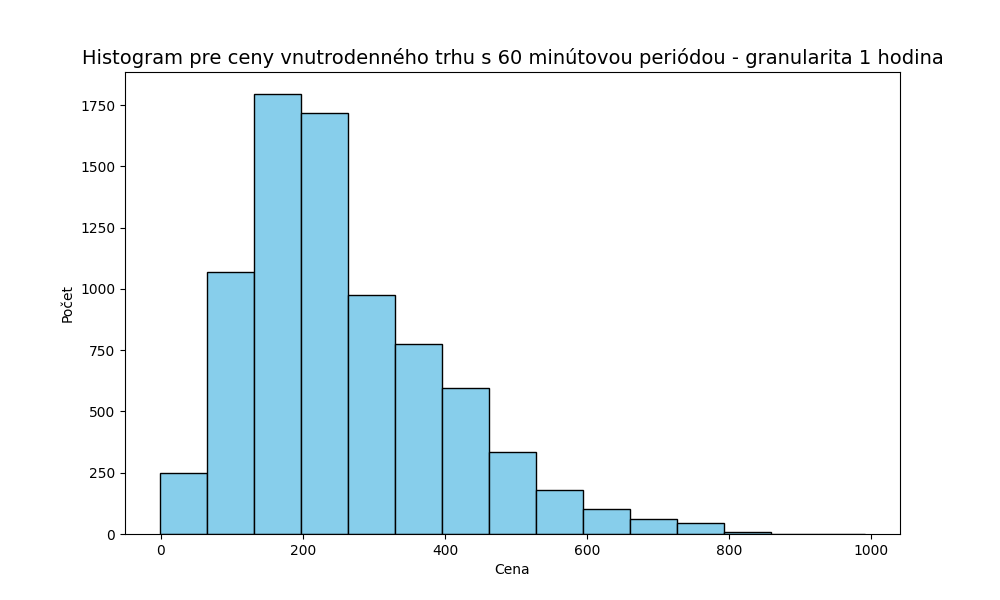
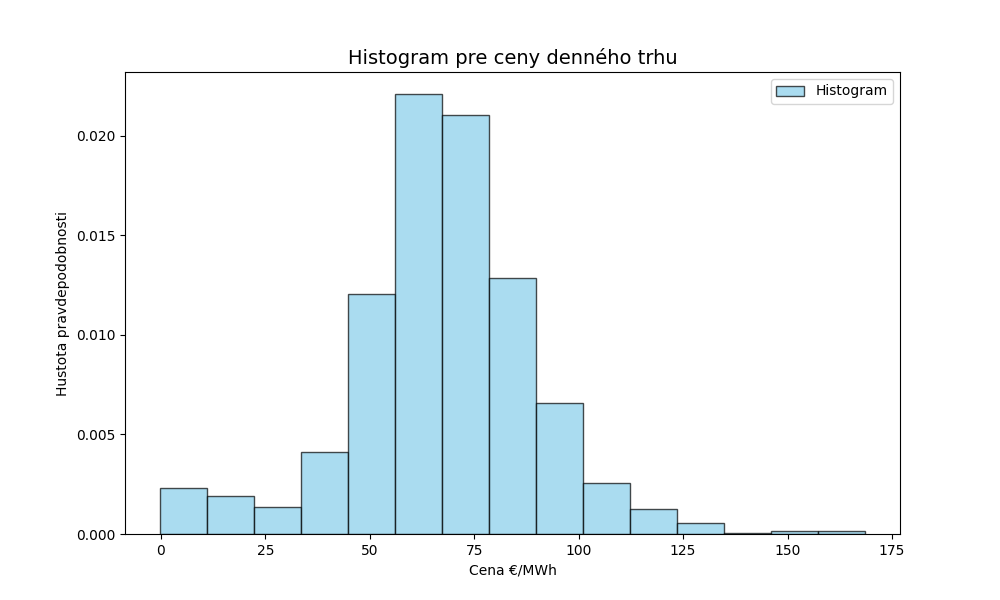
final version

diff --git a/PredictionAnalysis.py b/PredictionAnalysis.py
@@ -1,4 +1,5 @@
-from scipy.stats import stats
+import numpy as np
+from scipy.stats import stats, norm
 from statsmodels.tsa.stattools import adfuller
 from statsmodels.tsa.stl._stl import STL
 import scipy.stats as stats
@@ -140,21 +141,25 @@ def merging_data_and_preparation_dam_idm(market_type, date_from, date_to):
     return merged_df
 
 def Histogram(market_type, date_from, date_to):
-    if (market_type == "IDM15"):
-        merged_df = merging_data_and_preparation_IDM15(market_type,date_from,date_to)
+    if market_type == "IDM15":
+        merged_df = merging_data_and_preparation_IDM15(market_type, date_from, date_to)
     else:
         merged_df = merging_data_and_preparation_dam_idm(market_type, date_from, date_to)
 
     plt.figure(figsize=(10, 6))
-    plt.hist(merged_df['price'], bins=15,color='skyblue', edgecolor='black')
-    if (market_type == "IDM"):
-        plt.title(f'Histogram pre ceny vnutrodenného trhu s 60 minútovou periódou - granularita 1 hodina', fontsize=14)
-    if (market_type == "DAM"):
-        plt.title(f'Histogram pre ceny denného trhu - granularita 1 hodina', fontsize=14)
-    if (market_type == "IDM15"):
-        plt.title(f'Histogram pre ceny vnutrodenného trhu s 15 minútovou periódou - granularita 1 hodina', fontsize=14)
-    plt.xlabel('Cena')
-    plt.ylabel('Počet')
+    plt.hist(merged_df['price'], bins=15, color='skyblue', edgecolor='black', density=True, alpha=0.7,
+             label='Histogram')
+
+    if market_type == "IDM":
+        plt.title('Histogram pre ceny vnútrodenného trhu s 60 minútovou periódou', fontsize=14)
+    elif market_type == "DAM":
+        plt.title('Histogram pre ceny denného trhu', fontsize=14)
+    elif market_type == "IDM15":
+        plt.title('Histogram pre ceny vnútrodenného trhu s 15 minútovou periódou', fontsize=14)
+
+    plt.xlabel('Cena €/MWh')
+    plt.ylabel('Hustota pravdepodobnosti')
+    plt.legend()
     plt.savefig("Graphs/Histogram_from_to")
     plt.show()
 
@@ -244,7 +249,7 @@ def DecompositionOfTimeSeries():
 
 
 def STLDecomposition():
-    with open("Data/DAM_results_2023DEC.pkl", "rb") as file_dam:
+    with open("Data/DAM_results_2023.pkl", "rb") as file_dam:
         data_dam2023 = pickle.load(file_dam)
 
     with open("Data/DAM_results_2020.pkl", "rb") as file_dam:
@@ -280,41 +285,43 @@ def STLDecomposition():
     combined_years['diff_price'] = combined_years['price'].diff()
 
     # STl dekompozícia
-    stl = STL(df_dam2023['price'], seasonal=13)  # 13 je priemerná sezónna dĺžka v roku
+    stl = STL(combined_years['price'], seasonal=13)  # 13 je priemerná sezónna dĺžka v roku
 
     # Vykonanie dekompozície
     result = stl.fit()
 
     # Vykreslenie dekompozície
-    plt.figure(figsize=(12, 12))
+    plt.figure(figsize=(12, 14))
 
     plt.subplot(4, 1, 1)
-    plt.plot(df_dam2023['price'], label='Pôvodné ceny')
-    plt.xlabel('Dátum')
+    plt.plot(combined_years['price'], label='Pôvodné ceny')
+    plt.xlabel('Dátum', fontsize=11)  # Veľkosť textu nastavená na 14
     plt.xticks(rotation=0)  # Nastavenie rotácie textu na x-ovej osi
-    plt.ylabel('Cena')
-    plt.legend()
+    plt.ylabel('Cena', fontsize=11)  # Veľkosť textu nastavená na 14
+    plt.legend(prop={'size': 16})
 
     plt.subplot(4, 1, 2)
-    plt.plot(df_dam2023.index, result.trend, label='Trend')
-    plt.xlabel('Dátum')
+    plt.plot(combined_years.index, result.trend, label='Trend')
+    plt.xlabel('Dátum', fontsize=11)  # Veľkosť textu nastavená na 14
     plt.xticks(rotation=0)  # Nastavenie rotácie textu na x-ovej osi
-    plt.ylabel('Cena')
-    plt.legend()
+    plt.ylabel('Cena', fontsize=11)  # Veľkosť textu nastavená na 14
+    plt.legend(prop={'size': 16})
 
     plt.subplot(4, 1, 3)
-    plt.plot(df_dam2023.index, result.seasonal, label='Sezónnosť')
-    plt.xlabel('Dátum')
-    plt.xticks(rotation=0)
-    plt.ylabel('Cena')
-    plt.legend()
+    plt.plot(combined_years.index, result.seasonal, label='Sezónnosť')
+    plt.xlabel('Dátum', fontsize=11)  # Veľkosť textu nastavená na 14
+    plt.xticks(rotation=0)  # Nastavenie rotácie textu na x-ovej osi
+    plt.ylabel('Cena', fontsize=11)  # Veľkosť textu nastavená na 14
+    plt.legend(prop={'size': 16})
 
     plt.subplot(4, 1, 4)
-    plt.plot(df_dam2023.index, result.resid, label='Reziduá')
-    plt.xlabel('Dátum')
-    plt.xticks(rotation=0)
-    plt.ylabel('Cena')
-    plt.legend()
+    plt.plot(combined_years.index, result.resid, label='Reziduá')
+    plt.xlabel('Dátum', fontsize=11)  # Veľkosť textu nastavená na 14
+    plt.xticks(rotation=0)  # Nastavenie rotácie textu na x-ovej osi
+    plt.ylabel('Cena', fontsize=11)  # Veľkosť textu nastavená na 14
+    plt.legend(prop={'size': 16})
+
+    plt.show()
 
     plt.savefig("Graphs/Dekompozícia_STL_2023_DEC_DAM")
     plt.tight_layout()
@@ -394,7 +401,7 @@ def qq_plot(market_type, date_from, date_to):
 #qq_plot("IDM","2023-01-01", "2024-01-01")
 #ACF("IDM","2023-01-01", "2024-01-01")
 #PACF("IDM","2023-01-01", "2024-01-01")
-#STLDecomposition()
+STLDecomposition()
 #AdFullerTestIDM15()
 #AdFullerTestDAM()
 #STLDecomposition()

diff --git a/priceGraphsWeekly.py b/priceGraphsWeekly.py
@@ -193,13 +193,13 @@ def visualize_av_price_in_week_overlay():
         print(df_2022_druhy_polrok.describe())
 
         plt.figure(figsize=(14, 6))
-        plt.plot(data_2022_ropa_prvy_polrok['Date'], data_2022_ropa_prvy_polrok['Price'], color='r',label="Ropa")
-        plt.plot(data_2022_plyn_prvy_polrok['Date'], data_2022_plyn_prvy_polrok['Price'], color='g',label="Plyn")
-        plt.plot(data_2022_uhlie_prvy_polrok['Date'], data_2022_uhlie_prvy_polrok['Price'] , color='orange',label="Uhlie")
+        plt.plot(data_2022_ropa_druhy_polrok['Date'], data_2022_ropa_druhy_polrok['Price'], color='r',label="Ropa")
+        plt.plot(data_2022_plyn_druhy_polrok['Date'], data_2022_plyn_druhy_polrok['Price'], color='g',label="Plyn")
+        plt.plot(data_2022_uhlie_druhy_polrok['Date'], data_2022_uhlie_druhy_polrok['Price'] , color='orange',label="Uhlie")
         #plt.plot(dates_2023, price_2023, linestyle='-', color='blue',alpha=0.3)
         #plt.plot(dates_2020, price_2020, linestyle='-', color='blue',alpha=0.3)
         #plt.plot(dates_2021, price_2021, linestyle='-', color='blue',alpha=0.3)
-        plt.plot(df_2022_prvy_polrok['Date'], df_2022_prvy_polrok['Price'], linestyle='-', color='blue',label="Denný trh",alpha=0.5)
+        plt.plot(df_2022_druhy_polrok['Date'], df_2022_druhy_polrok['Price'], color='blue',label="Denný trh",alpha=0.5)
 
         average_prices_per_day = df.groupby('deliveryDay')['price'].mean()
         interpolated_price = np.interp(np.linspace(0, 1, 365), np.linspace(0, 1, len(data_plyn)),
@@ -216,9 +216,9 @@ def visualize_av_price_in_week_overlay():
 
         plt.xticks(rotation=0, ha='right')  # Adjust the rotation for better readability
         plt.xticks()
-        plt.title("Vývoj cien denného trhu a komodít za Q1 a Q2 roku 2022 - granularita 1 deň", fontsize=16)
-        plt.xlabel("Dátum", fontsize = 12)
-        plt.ylabel("Cena komodit (€)", fontsize = 12)
+        plt.title("Vývoj cien denného trhu a komodít za Q3 a Q4 roku 2022 - granularita 1 deň", fontsize=20)
+        plt.xlabel("Dátum", fontsize = 15)
+        plt.ylabel("Cena komodit (€)", fontsize = 15)
         plt.legend()
         plt.tight_layout()
         #plt.savefig("DAM a komodity 2022 Q3 Q4 - final")

diff --git a/Predictions.py b/Predictions.py
@@ -59,7 +59,7 @@ def sarima_model(number_of_days_to_predict, market_type):
 def auto_regressive_model(number_of_days_to_predict, market_type):
     df_dam = data_preparing(market_type)
 
-    model = AutoReg(df_dam['price'], lags=24)
+    model = AutoReg(df_dam['price'], lags=168)
     model_fit = model.fit()
 
     predictions = model_fit.predict(start=len(df_dam), end=len(df_dam) + number_of_days_to_predict)

diff --git a/GUI.py b/GUI.py
@@ -191,7 +191,7 @@ def vykreslovanie_analyz():
     ttk_style = "vista"
     sg.theme('SystemDefaultForReal')
 
-    window = sg.Window("Vykreslovanie cien", size=(1200, 750), titlebar_background_color="green", layout=layout,
+    window = sg.Window("Analýzy", size=(1200, 750), titlebar_background_color="green", layout=layout,
                        ttk_theme=ttk_style)
 
     typ_grafu = "DAM"
